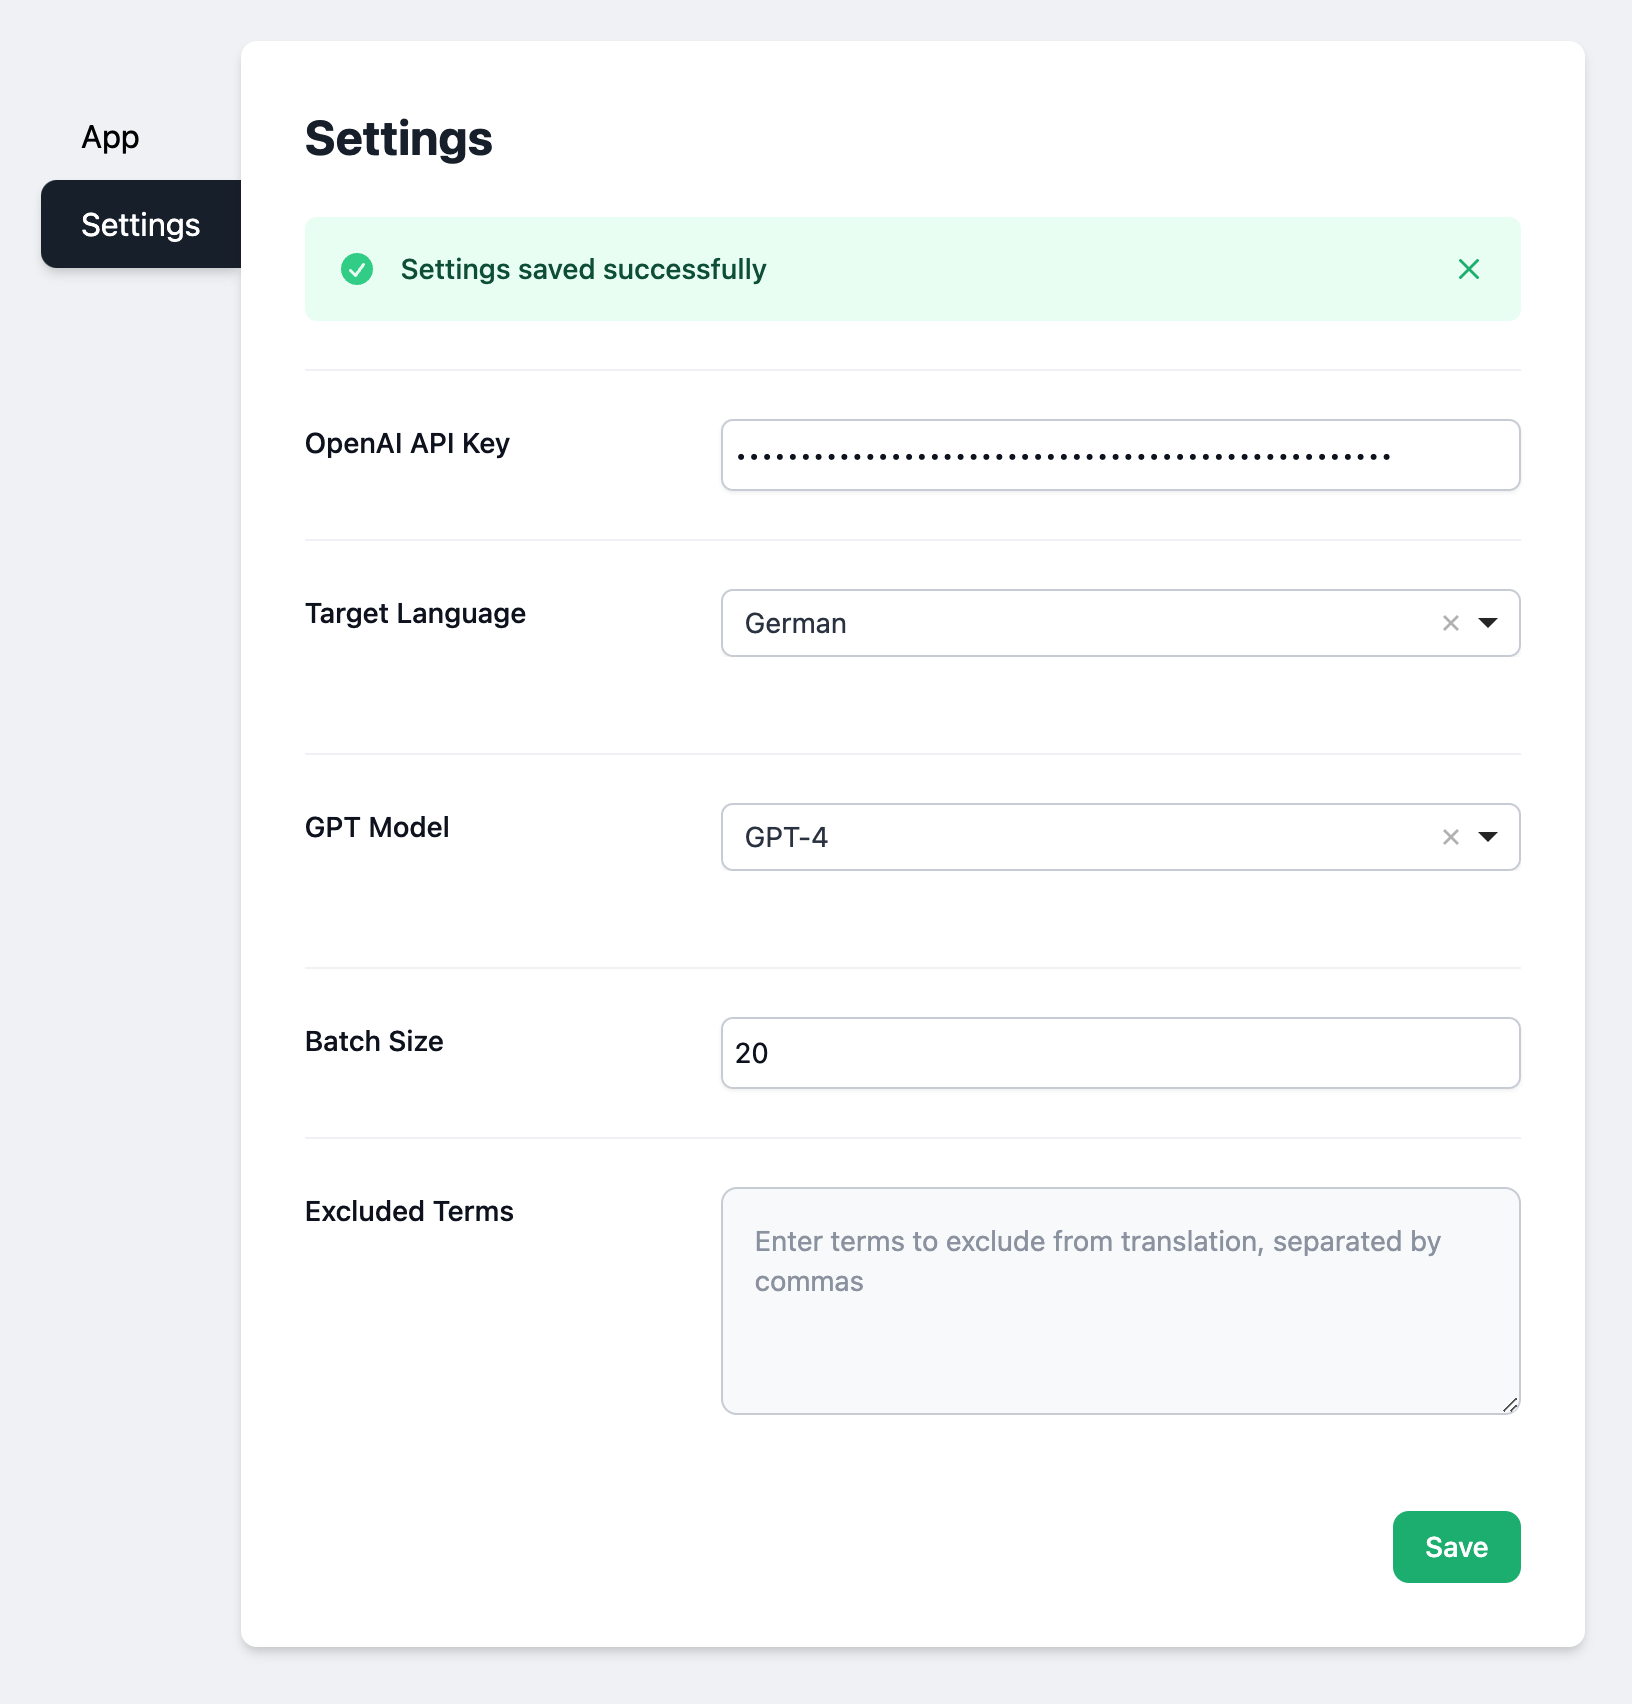
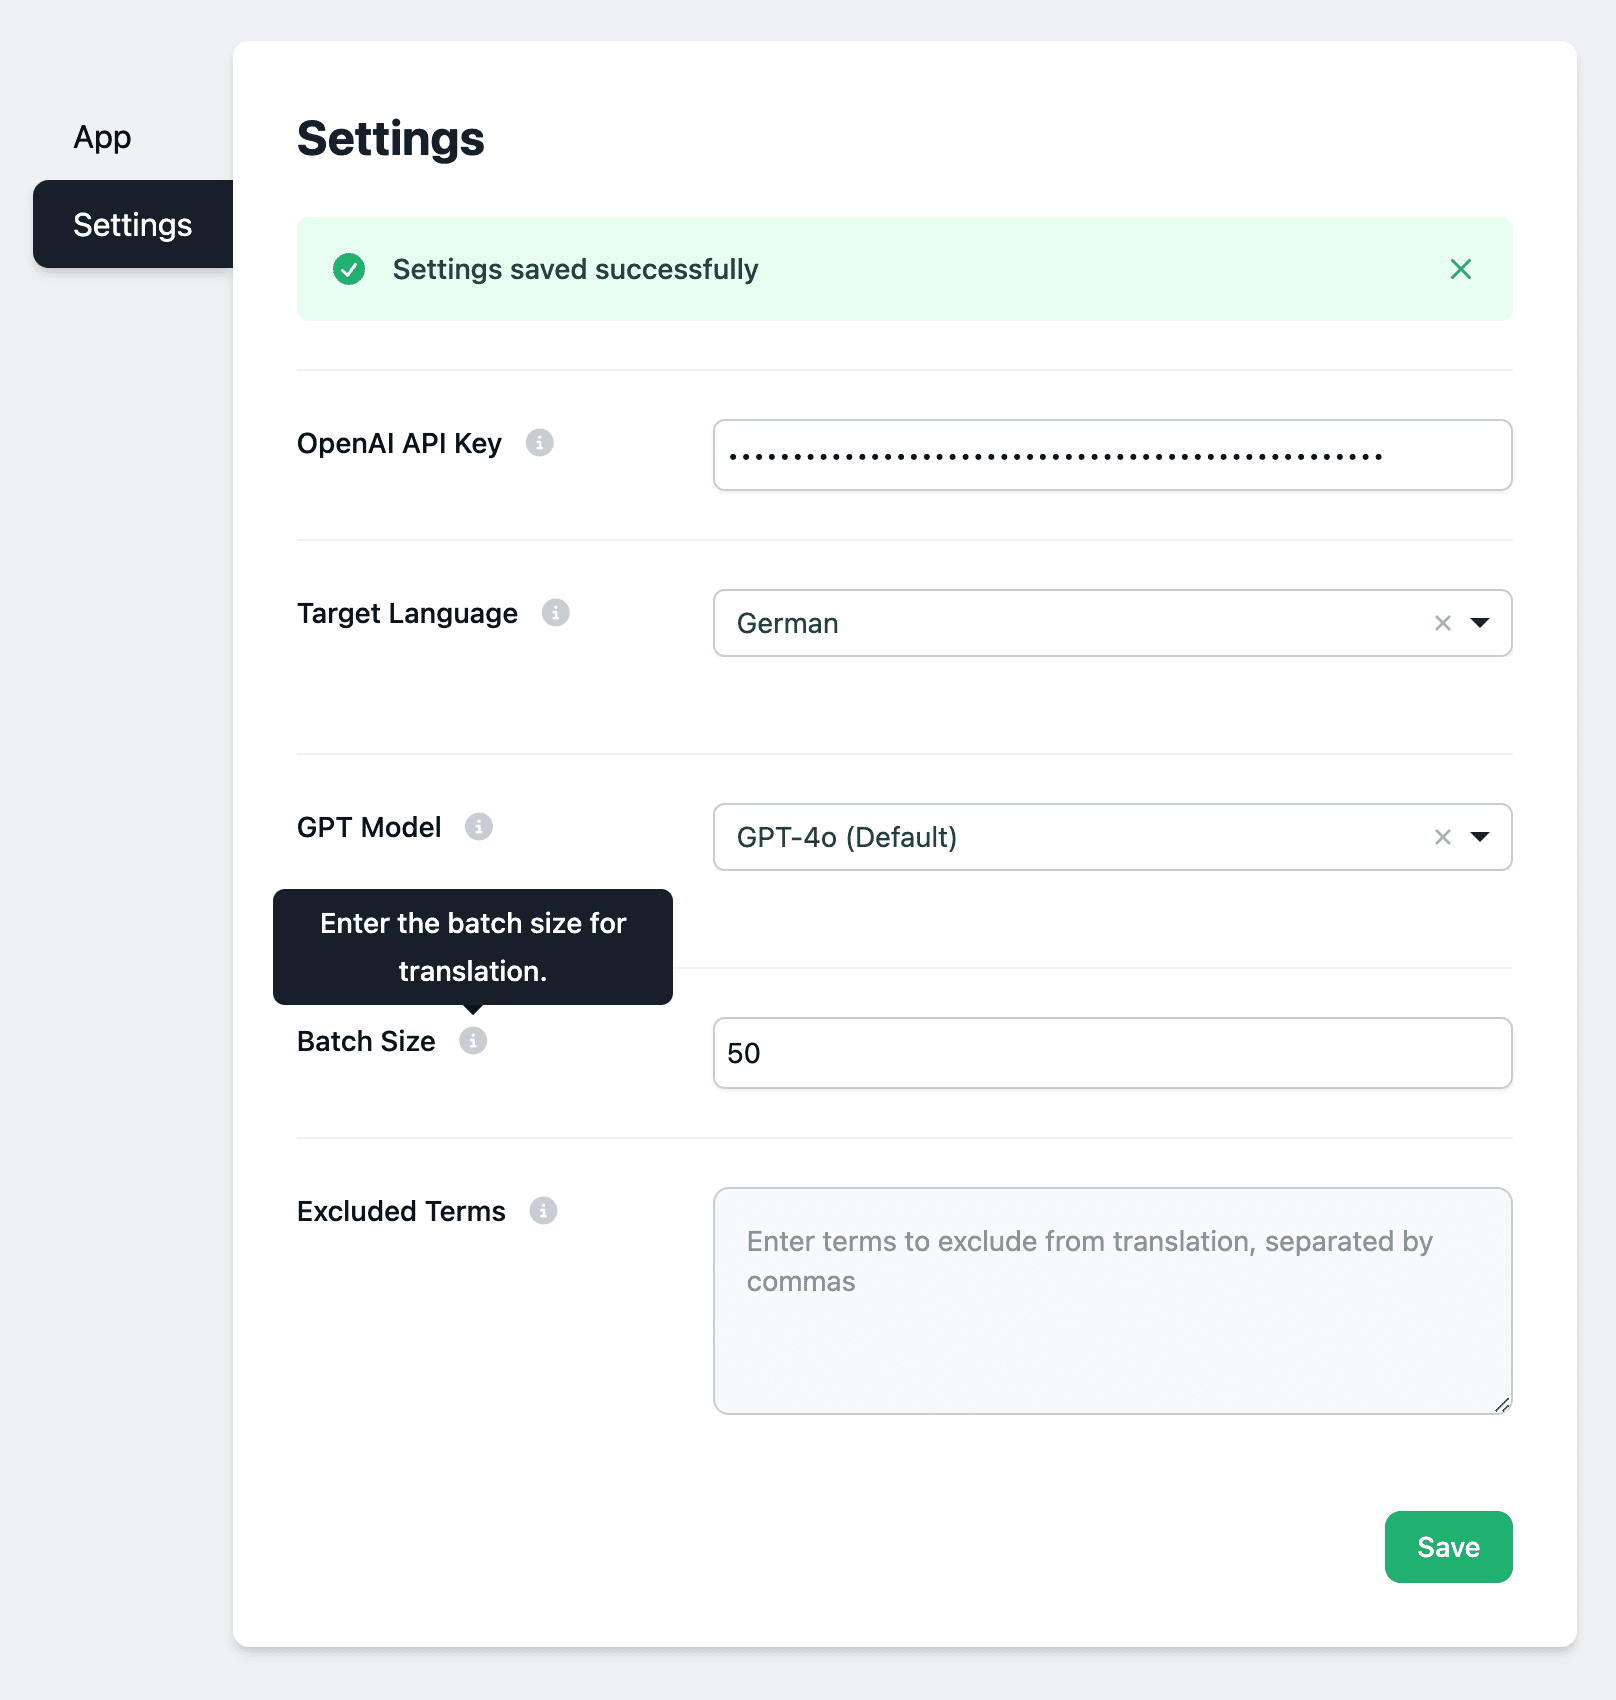
Screenshot update

diff --git a/public/index.html b/public/index.html
@@ -34,10 +34,6 @@
                     <div class="flex items-center space-x-4">
                         <label for="fileUpload" class="flex-1 flex items-center justify-center px-4 py-3 text-sm font-medium text-white bg-blue-500 rounded-lg cursor-pointer hover:bg-blue-700 focus:outline-none focus:ring-2 focus:ring-offset-2 focus:ring-blue-500">
                             <i class="fas fa-upload mr-2" aria-hidden="true"></i> Choose .POT File
-                            <div class="tooltip ml-2">
-                                <i class="fas fa-info-circle text-gray-300"></i>
-                                <span class="tooltiptext">Upload a .POT file for translation.</span>
-                            </div>
                         </label>
                         <input type="file" id="fileUpload" class="hidden" aria-describedby="fileUploadDesc">
                         <button id="translateBtn" disabled class="flex-1 px-4 py-3 text-sm font-medium text-white bg-green-500 rounded-lg hover:bg-green-700 focus:outline-none focus:ring-2 focus:ring-offset-2 focus:ring-green-500 disabled:bg-gray-300">Translate</button>
@@ -73,7 +69,7 @@
                             <div class="px-4 py-6 sm:grid sm:grid-cols-3 sm:gap-4 sm:px-0 apiKey">
                                 <dt class="text-sm font-medium leading-6 text-gray-900">OpenAI API Key
                                     <div class="tooltip ml-2">
-                                        <i class="fas fa-info-circle text-gray-300"></i>
+                                        <i class="fas fa-info-circle"></i>
                                         <span class="tooltiptext">Enter your OpenAI API key.</span>
                                     </div>
                                 </dt>
@@ -85,7 +81,7 @@
                             <div class="px-4 py-6 sm:grid sm:grid-cols-3 sm:gap-4 sm:px-0 apiLanguages">
                                 <dt class="text-sm font-medium leading-6 text-gray-900">Target Language
                                     <div class="tooltip ml-2">
-                                        <i class="fas fa-info-circle text-gray-300"></i>
+                                        <i class="fas fa-info-circle"></i>
                                         <span class="tooltiptext">Select the target language for translation.</span>
                                     </div>
                                 </dt>
@@ -118,7 +114,7 @@
                             <div class="px-4 py-6 sm:grid sm:grid-cols-3 sm:gap-4 sm:px-0 apiModel">
                                 <dt class="text-sm font-medium leading-6 text-gray-900">GPT Model
                                     <div class="tooltip ml-2">
-                                        <i class="fas fa-info-circle text-gray-300"></i>
+                                        <i class="fas fa-info-circle"></i>
                                         <span class="tooltiptext">Select the GPT model to use for translation.</span>
                                     </div>
                                 </dt>
@@ -134,19 +130,19 @@
                             <div class="px-4 py-6 sm:grid sm:grid-cols-3 sm:gap-4 sm:px-0 apiBatchSize">
                                 <dt class="text-sm font-medium leading-6 text-gray-900">Batch Size
                                     <div class="tooltip ml-2">
-                                        <i class="fas fa-info-circle text-gray-300"></i>
+                                        <i class="fas fa-info-circle"></i>
                                         <span class="tooltiptext">Enter the batch size for translation.</span>
                                     </div>
                                 </dt>
                                 <dd class="mt-1 text-sm leading-6 text-gray-700 sm:col-span-2 sm:mt-0">
-                                    <input type="number" id="batchSize" min="1" value="10" class="block w-full rounded-md border-0 py-1.5 text-gray-900 shadow-sm ring-1 ring-inset ring-gray-300 focus:outline-none focus:ring-2 focus:ring-offset-2 focus:ring-blue-500 sm:text-sm sm:leading-6" aria-describedby="batchSizeDesc">
+                                    <input type="number" id="batchSize" min="1" step="10" value="10" class="block w-full rounded-md border-0 py-1.5 text-gray-900 shadow-sm ring-1 ring-inset ring-gray-300 focus:outline-none focus:ring-2 focus:ring-offset-2 focus:ring-blue-500 sm:text-sm sm:leading-6" aria-describedby="batchSizeDesc">
                                     <span id="batchSizeDesc" class="sr-only">Enter the batch size for translation</span>
                                 </dd>
                             </div>
                             <div class="px-4 py-6 sm:grid sm:grid-cols-3 sm:gap-4 sm:px-0 excludedTerms">
                                 <dt class="text-sm font-medium leading-6 text-gray-900">Excluded Terms
                                     <div class="tooltip ml-2">
-                                        <i class="fas fa-info-circle text-gray-300"></i>
+                                        <i class="fas fa-info-circle"></i>
                                         <span class="tooltiptext">Enter terms to exclude from translation, separated by commas.</span>
                                     </div>
                                 </dt>
